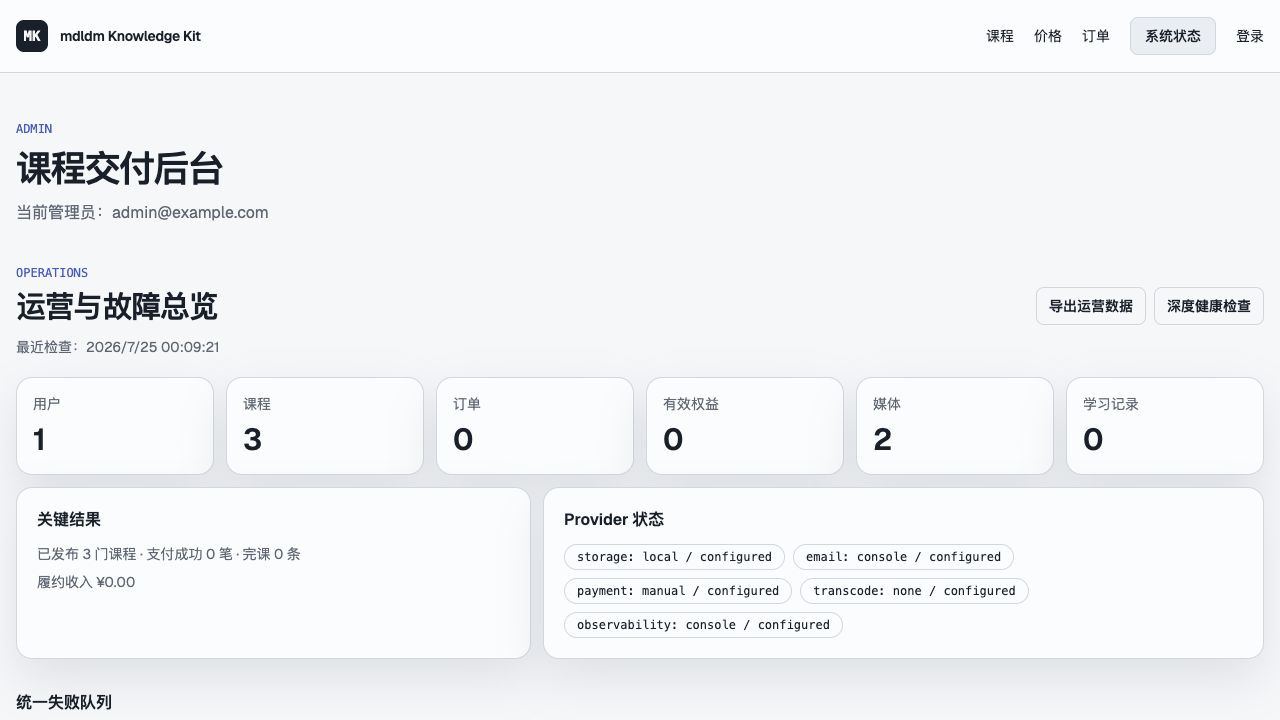
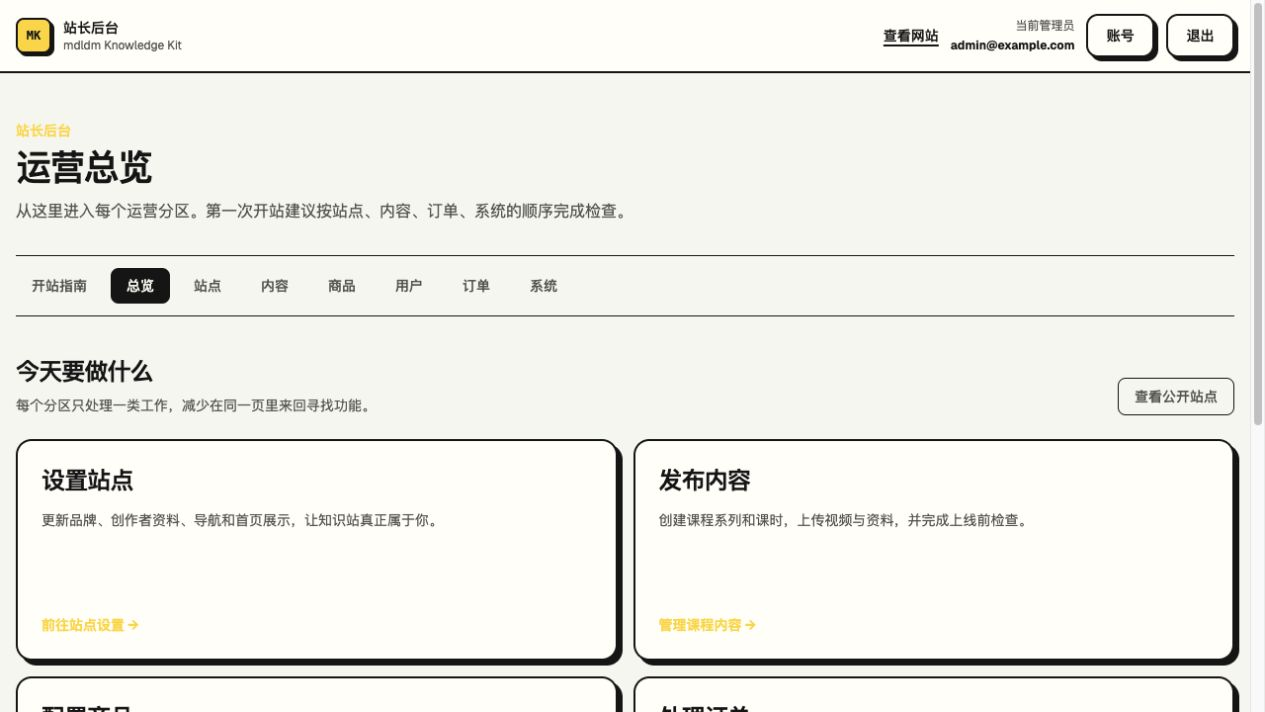
docs: refresh project screenshots

diff --git a/tests/site/quickstart-docs.test.ts b/tests/site/quickstart-docs.test.ts
@@ -100,13 +100,21 @@ describe("Agent-first quickstart contract", () => {
   });
 
   it("keeps the public README adopter-first and routes advanced documentation", async () => {
-    const [readme, docsIndex, paidGuide, trademarks, releaseAudit] =
+    const [
+      readme,
+      docsIndex,
+      paidGuide,
+      trademarks,
+      releaseAudit,
+      assetManifest,
+    ] =
       await Promise.all([
         readProjectFile("README.md"),
         readProjectFile("docs/README.md"),
         readProjectFile("docs/PAID_PRACTICE_GUIDE.md"),
         readProjectFile("TRADEMARKS.md"),
         readProjectFile("scripts/release-audit.mjs"),
+        readProjectFile("docs/assets/README.md"),
       ]);
 
     for (const entry of [
@@ -128,6 +136,19 @@ describe("Agent-first quickstart contract", () => {
       "docs/assets/wechat-group-mdldm-kit-2026-08-10.jpg",
     );
     expect(readme).toContain("2026 年 8 月 10 日前");
+    for (const screenshot of [
+      "docs/assets/home.png",
+      "docs/assets/courses.png",
+      "docs/assets/pricing.png",
+      "docs/assets/admin-operations.png",
+      "docs/assets/mdldm-club-home.png",
+    ]) {
+      expect(readme).toContain(screenshot);
+      expect(assetManifest).toContain(screenshot.replace("docs/assets/", ""));
+    }
+    expect(readme).toContain("不是设计稿");
+    expect(readme).toContain("不表示主站源码");
+    expect(assetManifest).toContain("不因此纳入 Apache-2.0 授权");
     expect(readme).not.toContain("VIBE_CODING_CREATOR_PLAN");
     expect(readme).not.toContain("OPERATOR_READY_JOURNEY");
     expect(docsIndex).toContain("第一次使用");

diff --git a/docs/assets/README.md b/docs/assets/README.md
@@ -1,19 +1,24 @@
 # 文档素材清单
 
-当前公开仓库保留两张项目界面截图，以及由项目发起者本人提供并明确用于公开联系的两张
-微信二维码。不包含外部图库、生成式装饰图、真实用户业务数据或第三方控制台截图。
+当前公开仓库保留四张隔离 Demo 项目截图、一张项目发起者主站的公开首页截图，以及由
+项目发起者本人提供并明确用于公开联系的两张微信二维码。不包含外部图库、生成式装饰图、
+真实用户业务数据或第三方控制台截图。
 
 | 文件 | 来源与内容 | 分发结论 |
 | --- | --- | --- |
 | `home.png` | 本项目隔离 Demo 首页，页面数据为虚构内容 | 作为仓库文档素材随公共核心按 Apache-2.0 分发 |
+| `courses.png` | 本项目隔离 Demo 课程搜索、分类与 Tag 页面，页面数据为虚构内容 | 作为仓库文档素材随公共核心按 Apache-2.0 分发 |
+| `pricing.png` | 本项目隔离 Demo 全站会员与单课购买页面，商品与价格为虚构内容 | 作为仓库文档素材随公共核心按 Apache-2.0 分发 |
 | `admin-operations.png` | 本项目隔离 Demo 运营后台，使用 `admin@example.com` 和虚构指标 | 作为仓库文档素材随公共核心按 Apache-2.0 分发 |
+| `mdldm-club-home.png` | 项目发起者本人运营的 `mdldm.club` 公开首页，只用于展示本项目的产品与设计来源 | 经本人明确授权随 README 展示；主站源码、课程封面、人物形象、名称与品牌资产不因此纳入 Apache-2.0 授权 |
 | `wechat-personal.jpg` | 项目发起者提供的个人微信二维码，用于公开联系 | 经本人明确授权随 README 展示；其中微信名称、Logo 和界面元素不随本项目重新授权 |
 | `wechat-group-mdldm-kit-2026-08-10.jpg` | 项目发起者提供的 `mdldm-kit` 临时交流群二维码 | 经本人明确授权随 README 展示；二维码有效期至 2026-08-10，微信相关标识权利归其权利人 |
 
-原有两张界面文件虽以 `.png` 命名，当前编码实际为 JPEG；保留文件名是为了避免破坏已有
-文档链接。后续替换素材时应同时确认：
+界面文件虽以 `.png` 命名，当前编码实际为 JPEG；保留扩展名是为了维持稳定的文档链接。
+后续替换素材时应同时确认：
 
 1. 截图只含虚构数据，不出现真实邮箱、订单、域名、密钥和第三方账号；
 2. 素材由贡献者原创或具有允许随 Apache-2.0 项目分发的明确许可；
 3. 若使用第三方商标、字体、图标或照片，在本文件记录来源、许可证和必要声明；
-4. 不得把付费教程截图或原站私有素材直接复制到公共仓库。
+4. 不得把付费教程截图或原站私有素材直接复制到公共仓库；主站截图只能使用发起者明确
+   授权的公开页面和选定范围。

diff --git a/README.md b/README.md
@@ -34,6 +34,33 @@
 
 **不录视频，也可以在这里发布和销售文档型教程。** Article 图文课与 Video 视频课使用同一套商品、订单和权益系统。
 
+## 现在的开源版长什么样
+
+下面不是设计稿，而是使用隔离 Demo 数据真实运行后的页面。
+
+<table>
+  <tr>
+    <th width="50%">课程发现：搜索、分类与 Tag</th>
+    <th width="50%">交易入口：全站会员与单课购买</th>
+  </tr>
+  <tr>
+    <td><img src="docs/assets/courses.png" alt="mdldm Knowledge Kit 课程搜索与标签页面" /></td>
+    <td><img src="docs/assets/pricing.png" alt="mdldm Knowledge Kit 全站会员与单课购买页面" /></td>
+  </tr>
+</table>
+
+![mdldm Knowledge Kit 站长运营后台](docs/assets/admin-operations.png)
+
+站长后台不出现在公开导航中。首次部署后从 `/admin` 创建管理员 1 号，再在后台完成品牌、内容、商品、用户、订单与系统配置。
+
+## 它从哪里来
+
+开源版不是一套与真实运营脱节的模板，而是从 [麦当mdldm 的知识站](https://www.mdldm.club/) 中重新抽离公共能力、统一视觉 Token 和运营流程。下面是当前主站的公开首页；真实用户、订单、评价、私有课程正文和第三方配置不会进入本仓库。
+
+[![麦当mdldm 知识主站公开首页](docs/assets/mdldm-club-home.png)](https://www.mdldm.club/)
+
+主站截图只用于说明项目来源和设计关系，不表示主站源码、课程封面、人物形象或品牌资产随 Apache-2.0 开放授权，具体边界见 [商标与品牌使用说明](TRADEMARKS.md) 和 [素材清单](docs/assets/README.md)。
+
 ## 它适不适合你
 
 | 适合 | 暂不适合 |

diff --git a/TASKS.md b/TASKS.md
@@ -147,7 +147,8 @@
   重复许可证说明，保留稳定 ADR，并补齐商标、素材许可和付费实践授权边界；历史对象
   扫描未发现密钥、真实邮箱或带凭据 MongoDB URI，但能看到早期 `docs/analysis` 路径和
   一条本机绝对路径；README 已补充作者联系方式、联系事项分流、X、个人微信、临时交流群
-  与中文平台统一搜索入口；
+  与中文平台统一搜索入口；已用隔离虚构 Demo 重新截取首页、课程、双付费模式和站长后台，
+  并经发起者授权补充 `mdldm.club` 公开首页参考图及独立品牌授权说明；
   因共享历史重写需要维护者明确确认，本阶段未自动改写 Git 历史；
 - TODO：公开下一版本前由维护者决定是否重写已共享的 Git 历史以彻底移除早期
   `docs/analysis` 对象；若执行，需要单独备份、重写标签并协调所有 Fork/Clone，不能在

diff --git a/docs/DEMO.md b/docs/DEMO.md
@@ -35,6 +35,14 @@ Demo 管理员默认由部署者首次访问 `/admin` 时创建。`pnpm create-a
 
 ![mdldm Knowledge Kit 首页](assets/home.png)
 
+### 课程搜索、分类与 Tag
+
+![mdldm Knowledge Kit 课程目录](assets/courses.png)
+
+### 全站会员与单课购买
+
+![mdldm Knowledge Kit 会员与单课页面](assets/pricing.png)
+
 ### 课程交付后台
 
 ![mdldm Knowledge Kit 运营后台](assets/admin-operations.png)
